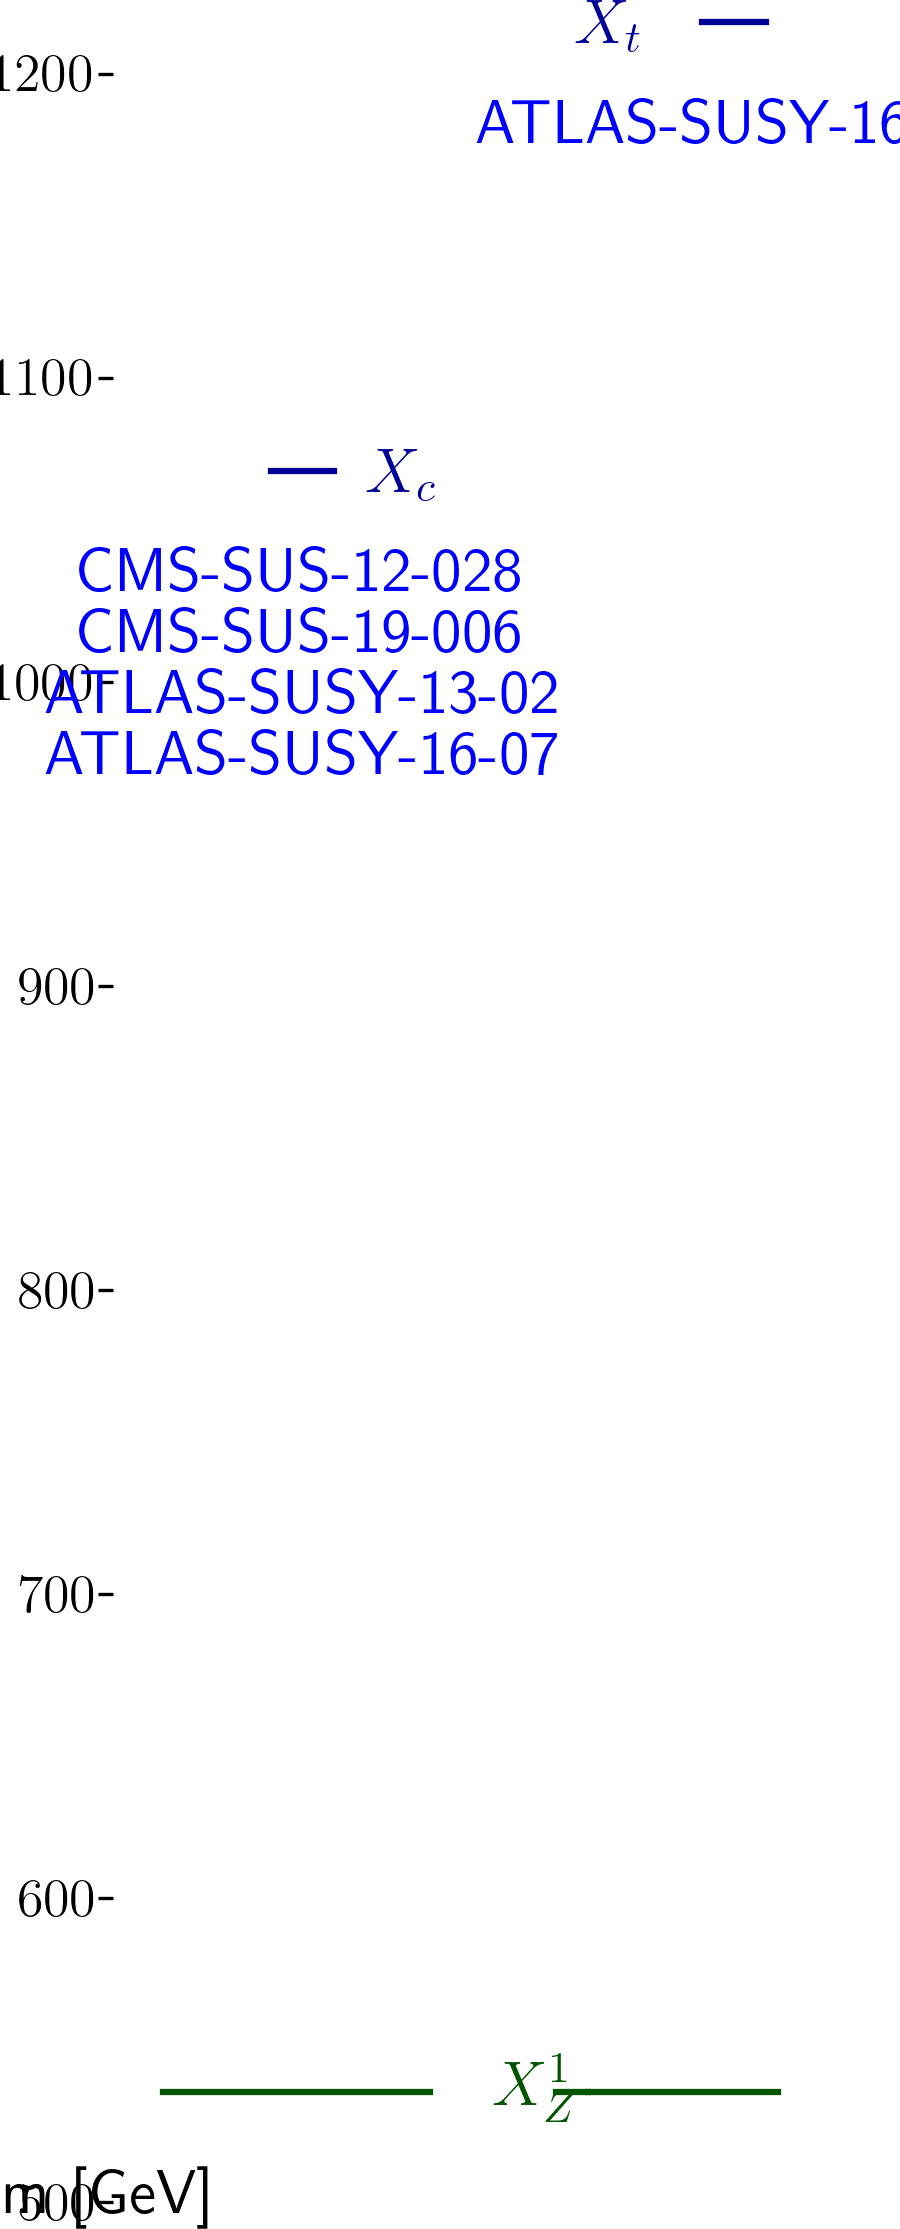
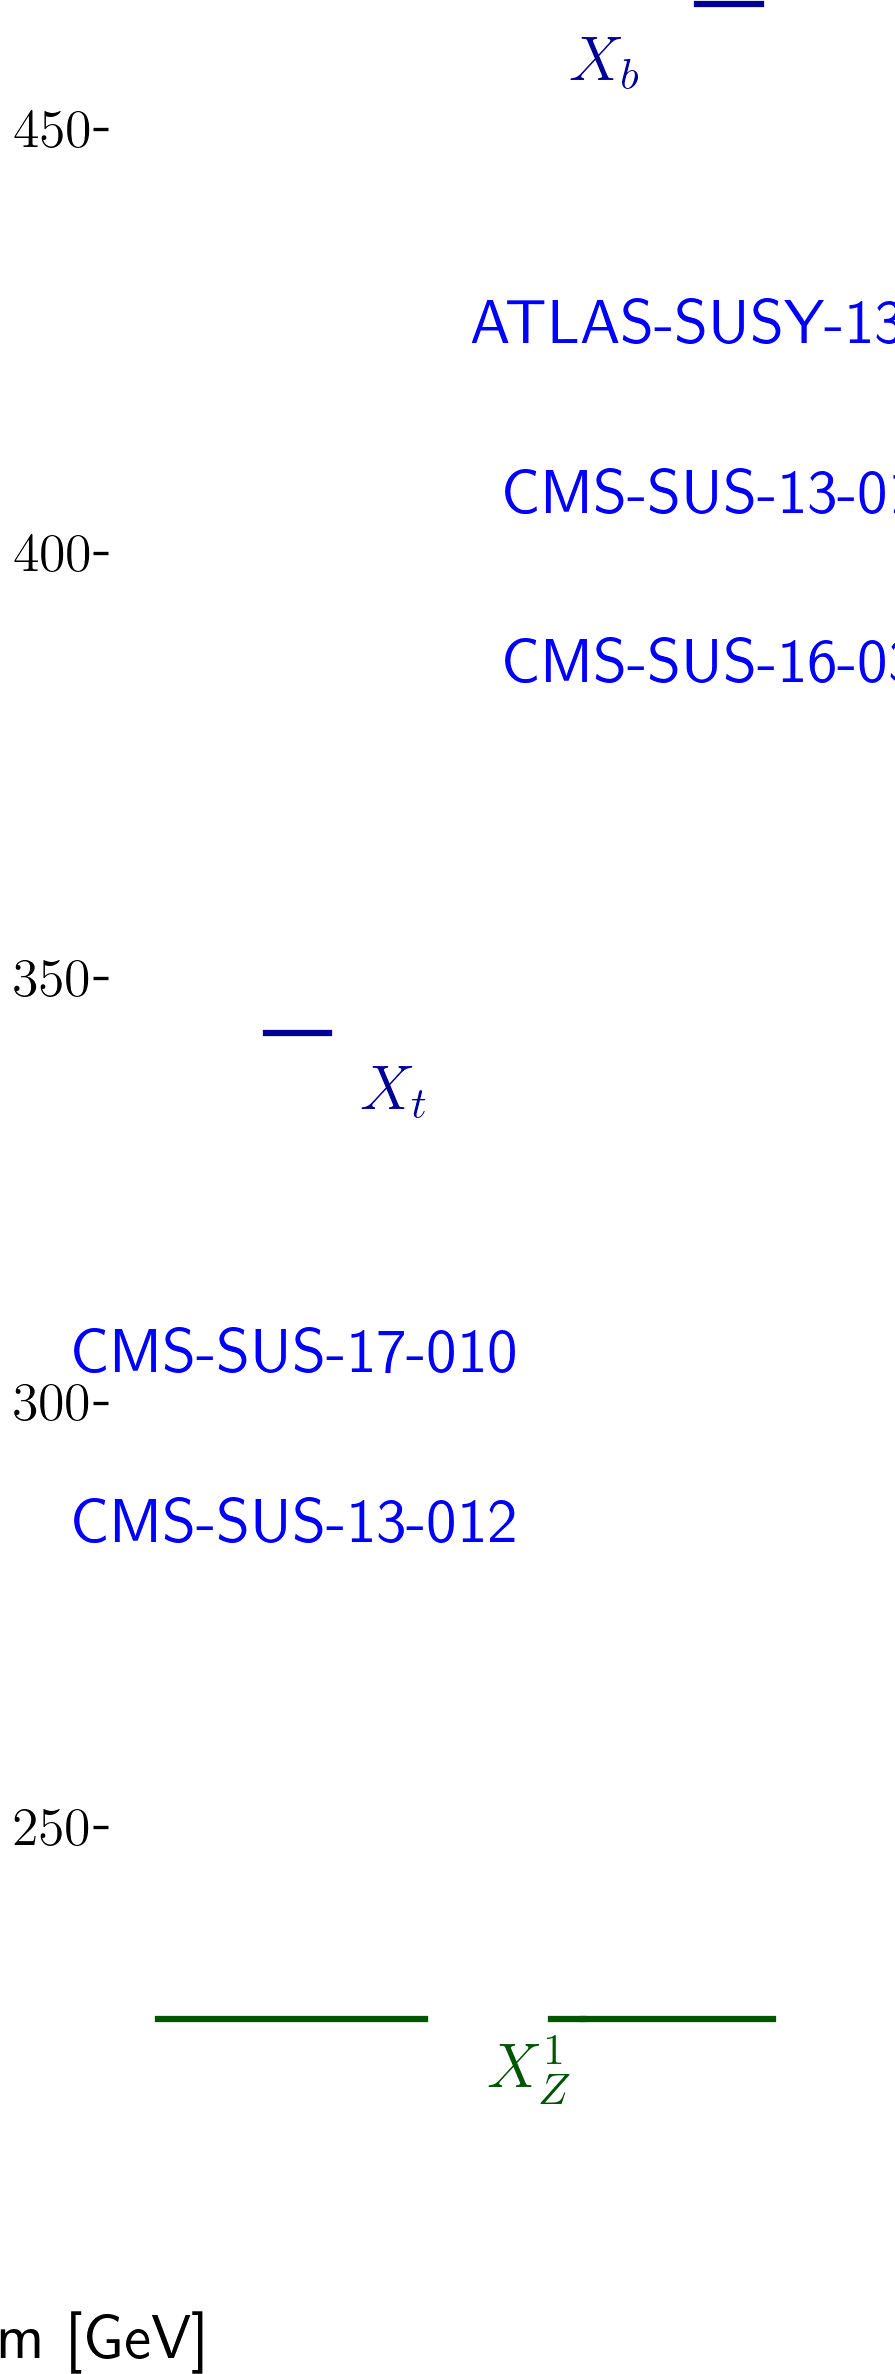
automated update by plotHiscore.py

diff --git a/protomodels/latest/index.html b/protomodels/latest/index.html
@@ -1,29 +1,31 @@
 <html>
 <body>
 <center>
-<table><td><h1>Current best protomodel: K=8.01</h1><td><img height=60px src=https://smodels.github.io/pics/banner.png></table>
+<table><td><h1>Current best protomodel: K=7.04</h1><td><img height=60px src=https://smodels.github.io/pics/banner.png></table>
 </center>
-<b><a href=./hiscore.slha>ProtoModel</a> <a href=./pmodel.py>(dict)</a> produced with <a href=https://smodels.github.io/docs/Validation124fake15>database v1.2.4fake15</a>, combination strategy <a href=./matrix_aggressive.png>aggressive</a> in walker 45 step 39.</b> K plots for: <a href=./M1000022.png?7152589>X<sub>Z</sub><sup>1</sup></a>, <a href=./M1000001.png?7152589>X<sub>d</sub></a>. HPD plots for: <a href=./llhd1000001.png?7152589>X<sub>d</sub></a>. SSM plots for: <a href=./ssm_-1000006_1000006.png?7152589>(x&#772;<sub>t</sub>,X<sub>t</sub>)</a><br>
+<b><a href=./hiscore.slha>ProtoModel</a> <a href=./pmodel.py>(dict)</a> produced with <a href=https://smodels.github.io/docs/Validation124fake18>database v1.2.4fake18</a>, combination strategy <a href=./matrix_aggressive.png>aggressive</a> in walker 47 step 106.</b> K plots for: <a href=./M1000022.png?7152793>X<sub>Z</sub><sup>1</sup></a>, <a href=./M1000006.png?7152793>X<sub>t</sub></a>, <a href=./M1000005.png?7152793>X<sub>b</sub></a>. HPD plots for: <a href=./llhd1000006.png?7152793>X<sub>t</sub></a>, <a href=./llhd1000005.png?7152793>X<sub>b</sub></a>. SSM plots for: <a href=./ssm_-1000006_1000006.png?7152793>(x&#772;<sub>t</sub>,X<sub>t</sub>)</a><br>
 <table width=80%>
 <tr><td>
-<br><b>17 predictions available. Highest r values are:</b><br><ul>
-<li><a href=http://cms-results.web.cern.ch/cms-results/public-results/publications/SUS-16-036/index.html>CMS-SUS-16-036</a>:T2 r=1.30, r<sub>exp</sub>=0.84<br>
-<li><a href=http://cms-results.web.cern.ch/cms-results/public-results/publications/SUS-16-049/index.html>CMS-SUS-16-049</a>:T2tt r=1.24, r<sub>exp</sub>=0.46<br>
-<li><a href=http://cms-results.web.cern.ch/cms-results/public-results/publications/SUS-19-006/index.html>CMS-SUS-19-006</a>:T2tt r=1.24, r<sub>exp</sub>=0.44<br>
-<li><a href=http://cms-results.web.cern.ch/cms-results/public-results/publications/SUS-16-033/index.html>CMS-SUS-16-033</a>:T2 r=0.67, r<sub>exp</sub>=0.88<br>
-<li><a href=http://cms-results.web.cern.ch/cms-results/public-results/publications/SUS-19-006/index.html>CMS-SUS-19-006</a>:T2 r=0.54, r<sub>exp</sub>=1.25<br>
+<br><b>24 predictions available. Highest r values are:</b><br><ul>
+<li><a href=http://cms-results.web.cern.ch/cms-results/public-results/publications/SUS-16-033/index.html>CMS-SUS-16-033</a>:T2bb r=1.02, r<sub>exp</sub>=N/A<br>
+<li><a href=http://cms-results.web.cern.ch/cms-results/public-results/publications/SUS-17-010>CMS-SUS-17-010</a>:T2tt r=0.72, r<sub>exp</sub>=N/A<br>
+<li><a href=http://cms-results.web.cern.ch/cms-results/public-results/publications/SUS-16-051/index.html>CMS-SUS-16-051</a>:T2tt r=0.61, r<sub>exp</sub>=N/A<br>
+<li><a href=http://cms-results.web.cern.ch/cms-results/public-results/publications/SUS-19-006/index.html>CMS-SUS-19-006</a>:T2bb r=0.60, r<sub>exp</sub>=N/A<br>
+<li><a href=http://cms-results.web.cern.ch/cms-results/public-results/publications/SUS-16-032/index.html>CMS-SUS-16-032</a>:T2bb r=0.49, r<sub>exp</sub>=N/A<br>
 </ul>
 <td><br><b>K values without analyses: (contribution)</b><br>
 <ul>
-<li> <a href=https://atlas.web.cern.ch/Atlas/GROUPS/PHYSICS/PAPERS/SUSY-2013-02/>ATLAS-SUSY-2013-02</a>: 6.60 (10%)
-<li> <a href=https://atlas.web.cern.ch/Atlas/GROUPS/PHYSICS/PAPERS/SUSY-2016-07/>ATLAS-SUSY-2016-07</a>: 6.22 (12%)
-<li> <a href=https://twiki.cern.ch/twiki/bin/view/CMSPublic/PhysicsResultsSUS12028>CMS-SUS-12-028</a>: 6.06 (13%)
-<li> <a href=http://cms-results.web.cern.ch/cms-results/public-results/publications/SUS-19-006/index.html>CMS-SUS-19-006</a>: -1.69 (65%)
-<td><img width=600px src=./texdoc.png?1600152590>
-<br><font size=-1>Last updated: Tue Sep 15 08:49:50 2020</font>
+<li> <a href=>CMS-SUS-13-011</a>: 5.68 (8%)
+<li> <a href=>ATLAS-SUSY-2015-02</a>: 4.98 (12%)
+<li> <a href=https://atlas.web.cern.ch/Atlas/GROUPS/PHYSICS/PAPERS/SUSY-2013-05/>ATLAS-SUSY-2013-05</a>: 4.87 (12%)
+<li> <a href=>ATLAS-SUSY-2013-15</a>: 4.68 (13%)
+<li> <a href=>CMS-SUS-16-051</a>: 3.29 (21%)
+<li> <a href=http://cms-results.web.cern.ch/cms-results/public-results/publications/SUS-16-036/index.html>CMS-SUS-16-036</a>: 0.89 (34%)
+<td><img width=600px src=./texdoc.png?1600152794>
+<br><font size=-1>Last updated: Tue Sep 15 08:53:14 2020</font>
 </table><table style="width:80%">
-<td width=45%><img height=580px src=./ruler.png?1600152590><td width=55%><img height=380px src=./decays.png?1600152590>
-<font size=-3><iframe type="text/html" height="220px" width="100%s" frameborder="0" src="./rawnumbers.html?1600152590"></iframe></font>
+<td width=45%><img height=580px src=./ruler.png?1600152794><td width=55%><img height=380px src=./decays.png?1600152794>
+<font size=-3><iframe type="text/html" height="220px" width="100%s" frameborder="0" src="./rawnumbers.html?1600152794"></iframe></font>
 </table>
 </body>
 </html>

diff --git a/protomodels/latest/rawnumbers.html b/protomodels/latest/rawnumbers.html
@@ -1,9 +1,8 @@
 <table>
 <tr><th>Analysis Name</th><th>Type</th><th>Dataset</th><th>Topos</th><th>Observed</th><th>Expected</th><th>Approx &sigma;</th><th>Particles</th>
 </tr>
-<tr><td><a href=https://atlas.web.cern.ch/Atlas/GROUPS/PHYSICS/PAPERS/SUSY-2013-02/>ATLAS-SUSY-2013-02</a></td><td>em</td> <td>SR6jtp</td><td>T2</td><td>1</td><td>4.9 +/- 1.6</td><td style="text-align:right">-1.4 &sigma;</td><td style="text-align:right">X<sub>c</sub></td></tr>
-<tr><td><a href=https://atlas.web.cern.ch/Atlas/GROUPS/PHYSICS/PAPERS/SUSY-2016-07/>ATLAS-SUSY-2016-07</a></td><td>em</td> <td>2j_Meff_1200</td><td>T2</td><td>556</td><td>526 +/- 31</td><td style="text-align:right">0.8 &sigma;</td><td style="text-align:right">X<sub>c</sub></td></tr>
-<tr><td><a href=https://atlas.web.cern.ch/Atlas/GROUPS/PHYSICS/PAPERS/SUSY-2016-16/>ATLAS-SUSY-2016-16</a></td><td>em</td> <td>tN_high</td><td>T2tt</td><td>10</td><td>3.8 +/- 1</td><td style="text-align:right">2.8 &sigma;</td><td style="text-align:right">X<sub>t</sub></td></tr>
-<tr><td><a href=https://twiki.cern.ch/twiki/bin/view/CMSPublic/PhysicsResultsSUS12028>CMS-SUS-12-028</a></td><td>ul</td> <td>-</td><td>T2</td><td> 22.2 fb </td><td> 16.3 fb</td><td style="text-align:right">0.7 &sigma;</td><td style="text-align:right">X<sub>c</sub></td></tr>
-<tr><td><a href=http://cms-results.web.cern.ch/cms-results/public-results/publications/SUS-19-006/index.html>CMS-SUS-19-006</a></td><td>ul</td> <td>-</td><td>T2</td><td> 27.9 fb </td><td> 12.0 fb</td><td style="text-align:right">2.6 &sigma;</td><td style="text-align:right">X<sub>c</sub></td></tr>
+<tr><td><a href=https://atlas.web.cern.ch/Atlas/GROUPS/PHYSICS/PAPERS/SUSY-2013-05/>ATLAS-SUSY-2013-05</a></td><td>em</td> <td>SRA-mCT200</td><td>T2bb</td><td>50</td><td>39 +/- 6</td><td style="text-align:right">1.3 &sigma;</td><td style="text-align:right">X<sub>b</sub></td></tr>
+<tr><td><a href=https://twiki.cern.ch/twiki/bin/view/CMSPublic/PhysicsResultsSUS13012>CMS-SUS-13-012</a></td><td>em</td> <td>6NJet8_500HT800 ...</td><td>T2bb, T2tt</td><td>0</td><td>0.8 +/- 3.3</td><td style="text-align:right">-0.2 &sigma;</td><td style="text-align:right">X<sub>b</sub>, X<sub>t</sub></td></tr>
+<tr><td><a href=http://cms-results.web.cern.ch/cms-results/public-results/publications/SUS-16-036/index.html>CMS-SUS-16-036</a></td><td>ul</td> <td>-</td><td>T2bb</td><td> 171.1 fb </td><td> 85.8 fb</td><td style="text-align:right">2.0 &sigma;</td><td style="text-align:right">X<sub>b</sub></td></tr>
+<tr><td><a href=http://cms-results.web.cern.ch/cms-results/public-results/publications/SUS-17-010>CMS-SUS-17-010</a></td><td>ul</td> <td>-</td><td>T2tt</td><td> 5262.3 fb </td><td> 2415.1 fb</td><td style="text-align:right">2.3 &sigma;</td><td style="text-align:right">X<sub>t</sub></td></tr>
 </table>

diff --git a/protomodels/latest/pmodel.py b/protomodels/latest/pmodel.py
@@ -1,1 +1,1 @@
-{'masses': {1000022: 526.261, 1000004: 1059.36, 1000006: 1206.951}, 'ssmultipliers': {(1000022, 1000022): 5.437, (1000004, 1000004): 3.606, (-1000004, 1000004): 3.606, (-1000004, -1000004): 1.0, (1000004, 1000022): 3.606, (-1000004, 1000022): 3.606, (1000006, 1000006): 0.952, (-1000006, 1000006): 0.952, (-1000006, -1000006): 0.952, (1000006, 1000022): 0.952, (-1000006, 1000022): 0.952, (1000004, 1000006): 0.952, (-1000006, 1000004): 0.952, (-1000004, 1000006): 0.952, (-1000006, -1000004): 0.952}, 'decays': {1000022: {}, 1000004: {1000022: 1.0}, 1000006: {1000022: 1.0}}, 'timestamp': 'Tue Sep 15 08:48:12 2020', 'Z': 3.4, 'K': 8.007, 'step': 39, 'codever': '1.0', 'dbver': '1.2.4fake15'}
+{'masses': {1000022: 217.412, 1000005: 454.657, 1000006: 333.485}, 'ssmultipliers': {(1000022, 1000022): 0.0, (1000005, 1000005): 0.012, (-1000005, 1000005): 0.061, (-1000005, -1000005): 0.012, (1000005, 1000022): 0.398, (-1000005, 1000022): 0.818, (1000006, 1000006): 0.818, (-1000006, 1000006): 0.818, (-1000006, -1000006): 0.818, (1000006, 1000022): 0.818, (-1000006, 1000022): 0.818, (1000005, 1000006): 0.818, (-1000006, 1000005): 0.818, (-1000005, 1000006): 0.818, (-1000006, -1000005): 0.818}, 'decays': {1000022: {}, 1000005: {1000022: 1.0}, 1000006: {1000022: 1.0}}, 'timestamp': 'Tue Sep 15 08:51:52 2020', 'Z': 3.292, 'K': 7.038, 'step': 106, 'codever': '1.0', 'dbver': '1.2.4fake18'}
